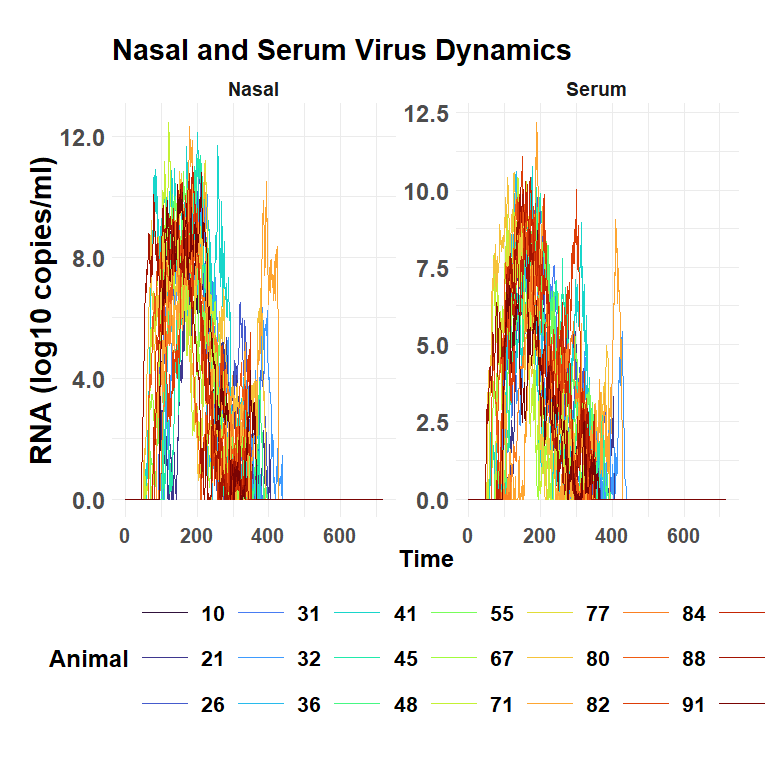
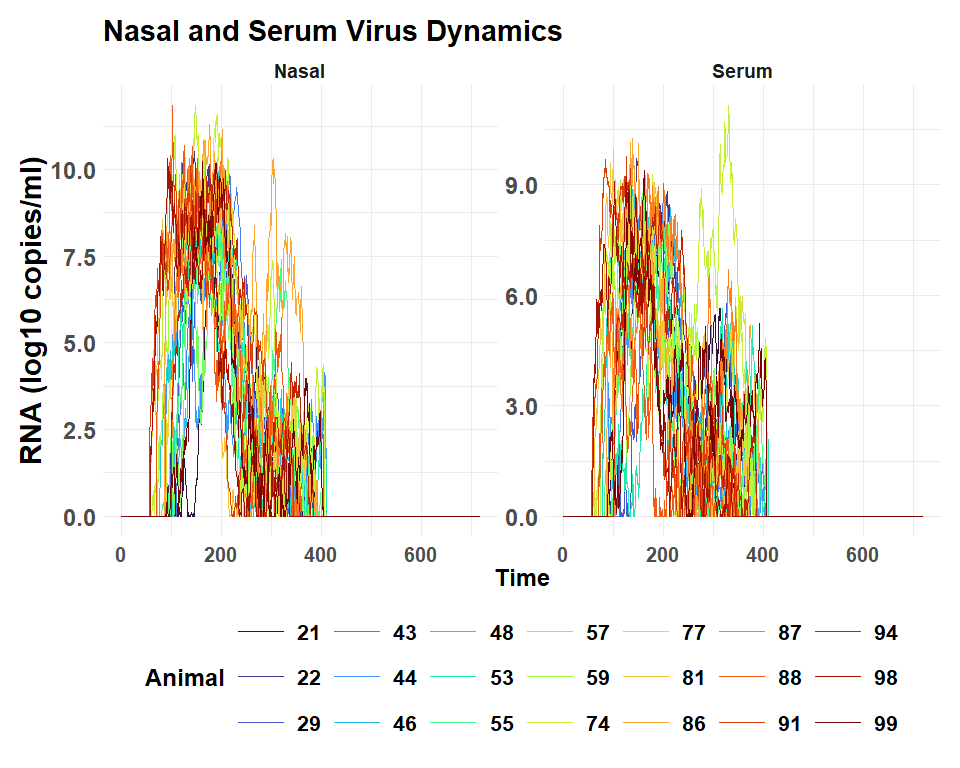
add herd level

diff --git a/README.md b/README.md
@@ -1,9 +1,11 @@
 ## challengeABM
-An Agent Based Model (ABM) simulating within-host virus dynamics and between host transmission during a room-to-room challenge experiment.  
-  
+An Agent Based Model (ABM) simulating within-host virus dynamics and between host transmission.  Functions provide scenarios for a room-to-room challenge experiment and virus introduction to a cattle herd.  
+
 This work is in draft form, has not been verified, and is subject to change.  
-### Brief Overview: https://github.com/geoepi/challengeABM/blob/main/overview.md  
+### Room-to-Room Overview (HERE): https://github.com/geoepi/challengeABM/blob/main/articles/room_to_room_transmission.md   
   
-### Simplified ShinyApp: https://geoepi.shinyapps.io/fmdv-preclinical/  
+### Within Herd Overview: https://github.com/geoepi/challengeABM/blob/main/articles/within_herd_transmission.md   
+  
+### Simplified Room-to-Rooom ShinyApp: https://geoepi.shinyapps.io/fmdv-preclinical/  
 
 

diff --git a/articles/within_herd_transmission.md b/articles/within_herd_transmission.md
@@ -8,8 +8,8 @@ challengeABM: Within Herd Transmission
   simulation</a>
 - <a href="#within-host-dynamics"
   id="toc-within-host-dynamics">Within-Host Dynamics</a>
-- <a href="#status-of-individual-animals"
-  id="toc-status-of-individual-animals">Status of Individual Animals</a>
+- <a href="#herd-outbreak-curve" id="toc-herd-outbreak-curve">Herd
+  Outbreak Curve</a>
 
 ## Description
 
@@ -56,7 +56,7 @@ seed_val
 
 </details>
 
-    [1] 252
+    [1] 119
 
 <details open>
 <summary>Hide code</summary>
@@ -94,7 +94,7 @@ plot_individual_virus_loads(model_result, sample_n = 21)
 
 ![](within_herd_transmission_files/figure-commonmark/unnamed-chunk-5-1.png)
 
-## Status of Individual Animals
+## Herd Outbreak Curve
 
 Compare the number of infected and recovered individuals.
 
